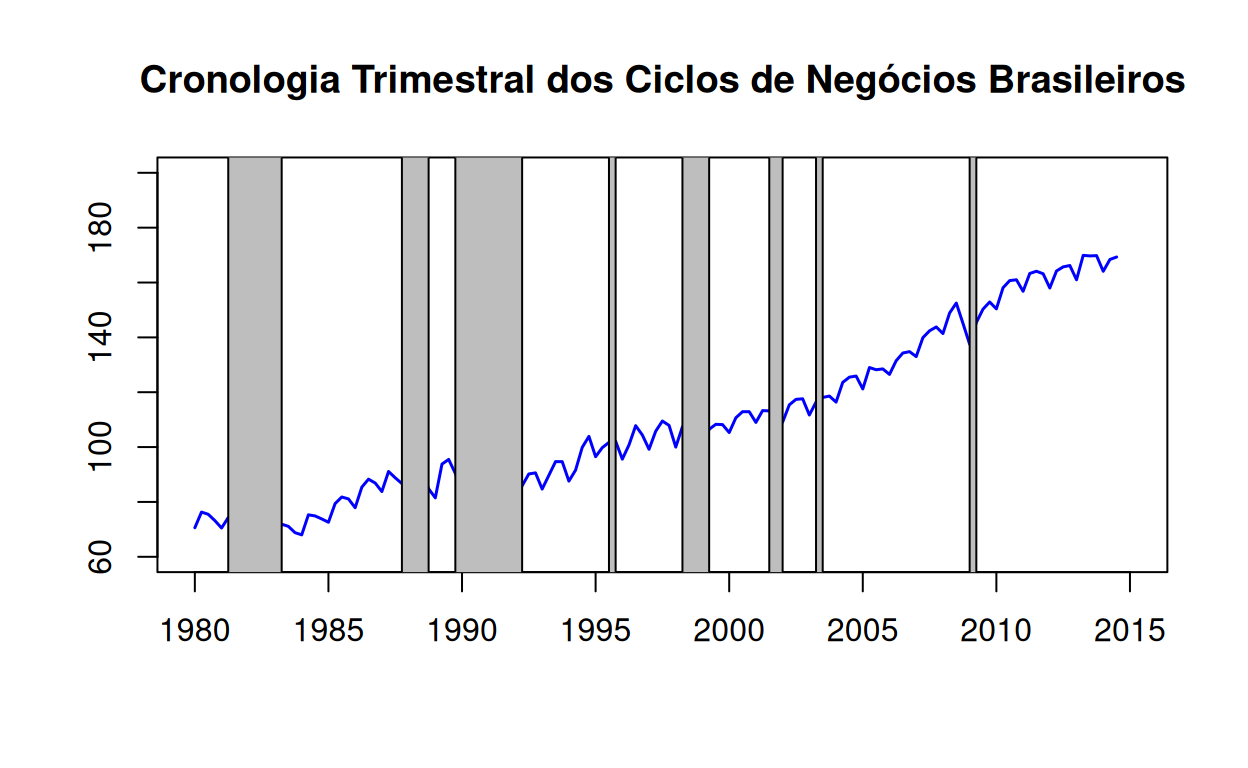
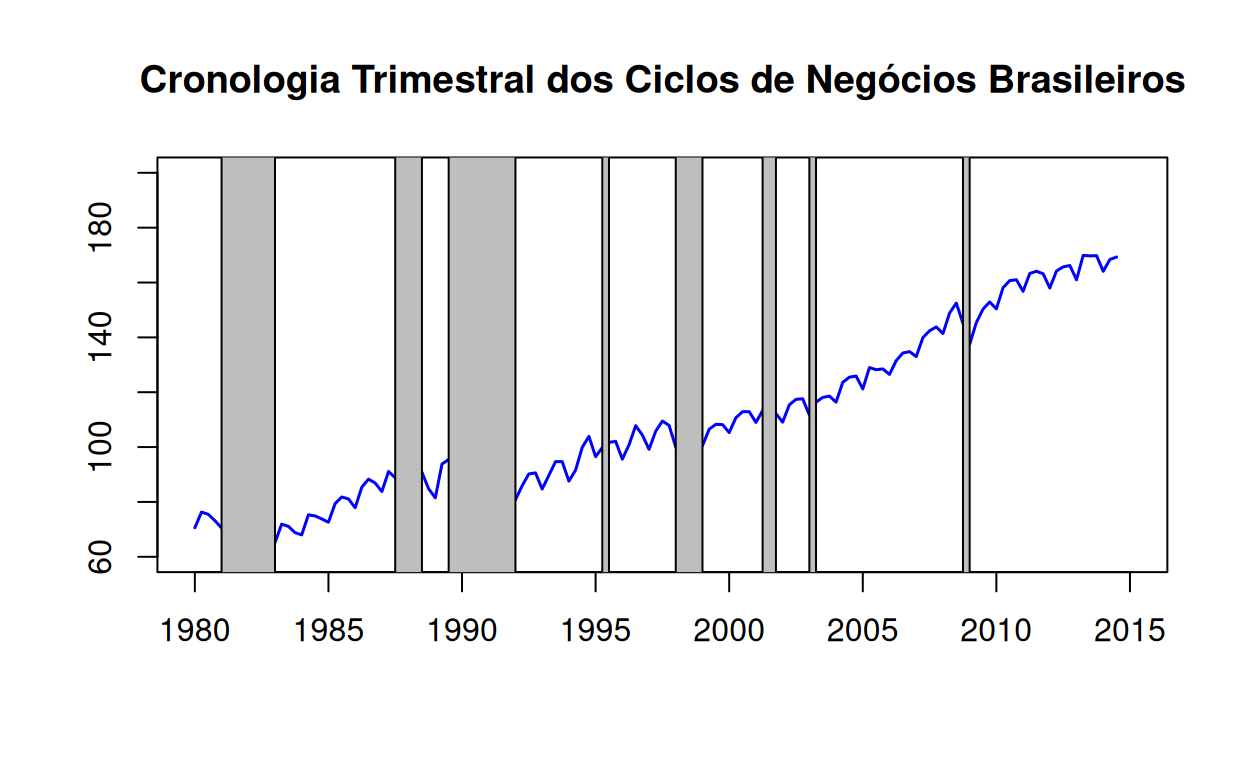
update 2020-08-17 post site

diff --git a/docs/posts/2020-08-17-plot-base-gdp/index.html b/docs/posts/2020-08-17-plot-base-gdp/index.html
@@ -1347,13 +1347,14 @@ gtag('config', 'UA-175878647-1');
 </div>
 
 <div class="d-article">
+<h4 id="updated-2020-09-03">Updated 2020-09-03</h4>
 <p>In this post, we want to make a similar plot as the figure in <a href="https://portalibre.fgv.br/sites/default/files/2020-06/comunicado-do-comite-de-datacao-de-ciclos-economicos-29_06_2020-1.pdf">this pdf</a>.</p>
 <h1 id="import">Import</h1>
 <p>First, I already downloaded the data and saved the only column that I will need in a <code>.csv</code> file. Next, I will import the data to <code>R</code> and get some quick visualizations.</p>
 <div class="layout-chunk" data-layout="l-body">
 <pre class="r"><code>
 # Import
-PIB &lt;- read.csv(&quot;../data/PIB_BASE_2000.csv&quot;)
+PIB &lt;- read.csv(&quot;../../data/PIB_BASE_2000.csv&quot;)
 
 # info about PIB
 str(PIB)</code></pre>
@@ -1529,7 +1530,12 @@ kable(tab.rec)</code></pre>
 <div class="layout-chunk" data-layout="l-body">
 <pre class="r"><code>
 # get recession limits in numeric dates
-recs2 &lt;-c(1981.25, 1983.25, 1987.75, 1988.75, 1989.75, 1992.25, 1995.5, 1995.75, 1998.25, 1999.25, 2001.5, 2002, 2003.25, 2003.5, 2009, 2009.25 )</code></pre>
+qtr2num &lt;- function(data) return( as.numeric(substring(data, 1, 4)) - 1/4 + as.numeric( substring(data, 7) )/4 )
+recs2 &lt;- qtr2num(recs)
+recs2</code></pre>
+<pre><code>
+ [1] 1981.00 1983.00 1987.50 1988.50 1989.50 1992.00 1995.25 1995.50
+ [9] 1998.00 1999.00 2001.25 2001.75 2003.00 2003.25 2008.75 2009.00</code></pre>
 </div>
 <p>Or we can get the series indices of the recession dates.</p>
 <div class="layout-chunk" data-layout="l-body">
@@ -1538,9 +1544,9 @@ recs2 &lt;-c(1981.25, 1983.25, 1987.75, 1988.75, 1989.75, 1992.25, 1995.5, 1995.
 idx &lt;- unlist( sapply(recs, function(x) which(x==dates) ) )
 names(idx) &lt;- recs2; idx</code></pre>
 <pre><code>
-1981.25 1983.25 1987.75 1988.75 1989.75 1992.25  1995.5 1995.75 
+   1981    1983  1987.5  1988.5  1989.5    1992 1995.25  1995.5 
       5      13      31      35      39      49      62      63 
-1998.25 1999.25  2001.5    2002 2003.25  2003.5    2009 2009.25 
+   1998    1999 2001.25 2001.75    2003 2003.25 2008.75    2009 
      73      77      86      88      93      94     116     117 </code></pre>
 </div>
 <p>Now that we have the recession limit dates, we plot the data with some more options, and use the <code>rect()</code> function to plot the graph with the recession bars.</p>
